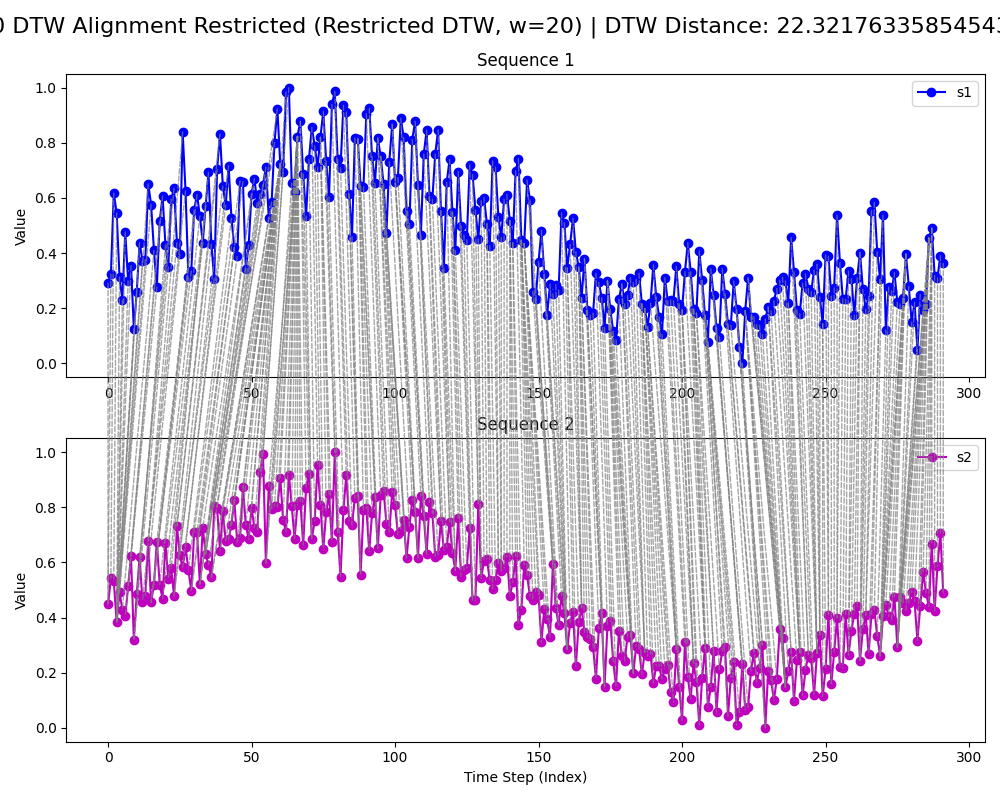
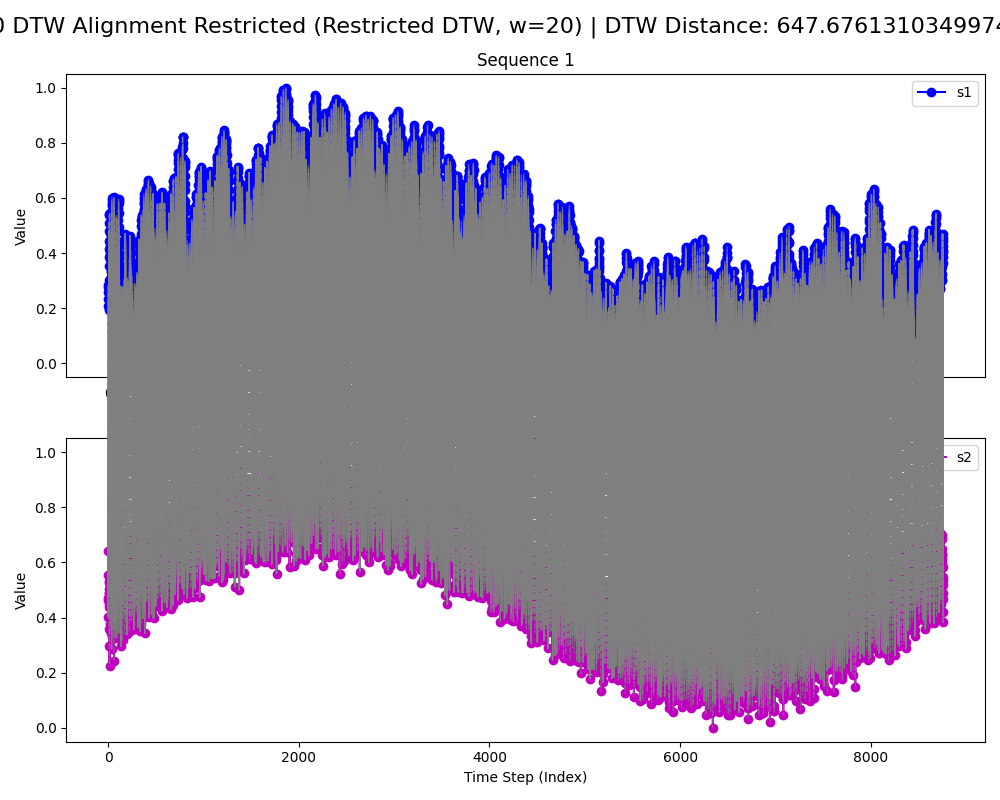
weather downsampled 80

diff --git a/appleData.py b/appleData.py
@@ -90,14 +90,13 @@ def compare_weather():
     print("Maximum DTW Distance:", max(distances))
 
 
-def compare_weather_downsampled():
-    output_dir = "outputs_weather_downsampled"
+def compare_weather_downsampled(downsample_factor):
+    output_dir = f"outputs_weather_downsampled_{downsample_factor}"
     os.makedirs(output_dir, exist_ok=True)
 
     ts_weather = load_generated_time_series("weather_data/temperatures.csv")
     ref_weather = load_weather_reference_data()
 
-    downsample_factor = 30
     ts_weather_downsampled = [ts[::downsample_factor] for ts in ts_weather]
     ref_weather_downsampled = ref_weather[::downsample_factor]
     print(f"Length of weather data: {len(ts_weather[0])}")
@@ -116,5 +115,5 @@ def compare_weather_downsampled():
 if __name__ == "__main__":
     # compare_apple_stock()
     # compare_weather()
-    # compare_weather_downsampled()
+    compare_weather_downsampled(80)
     pass

diff --git a/utils.py b/utils.py
@@ -286,8 +286,8 @@ def plot_dtw_path(s1, s2, title="DTW Path", save_dir=None, dtw_matrix=None):
     path_full = find_dtw_path(dtw_matrix)
 
     n, m = len(s1), len(s2)
-    distance_full = dtw_matrix[n][m]
-
+    print("\n--- Standard DTW Distance---")
+    print(f"Standard DTW Distance: {dtw_matrix[n][m]}")
     # print(f"Path: {path_full}")
     
     save_path = None
@@ -315,9 +315,7 @@ def plot_dtw_path_restricted(s1, s2, window_size, title="DTW Path Restricted", s
     path_restricted = find_dtw_path(dtw_matrix)
 
     n, m = len(s1), len(s2)
-    distance_restricted = dtw_matrix[n][m]
-
-    print(f"Restricted DTW Distance (w={window_size}): {distance_restricted}")
+    print(f"Restricted DTW Distance (w={window_size}): {dtw_matrix[n][m]}")
     # print(f"Path: {path_restricted}")
 
     save_path = None
